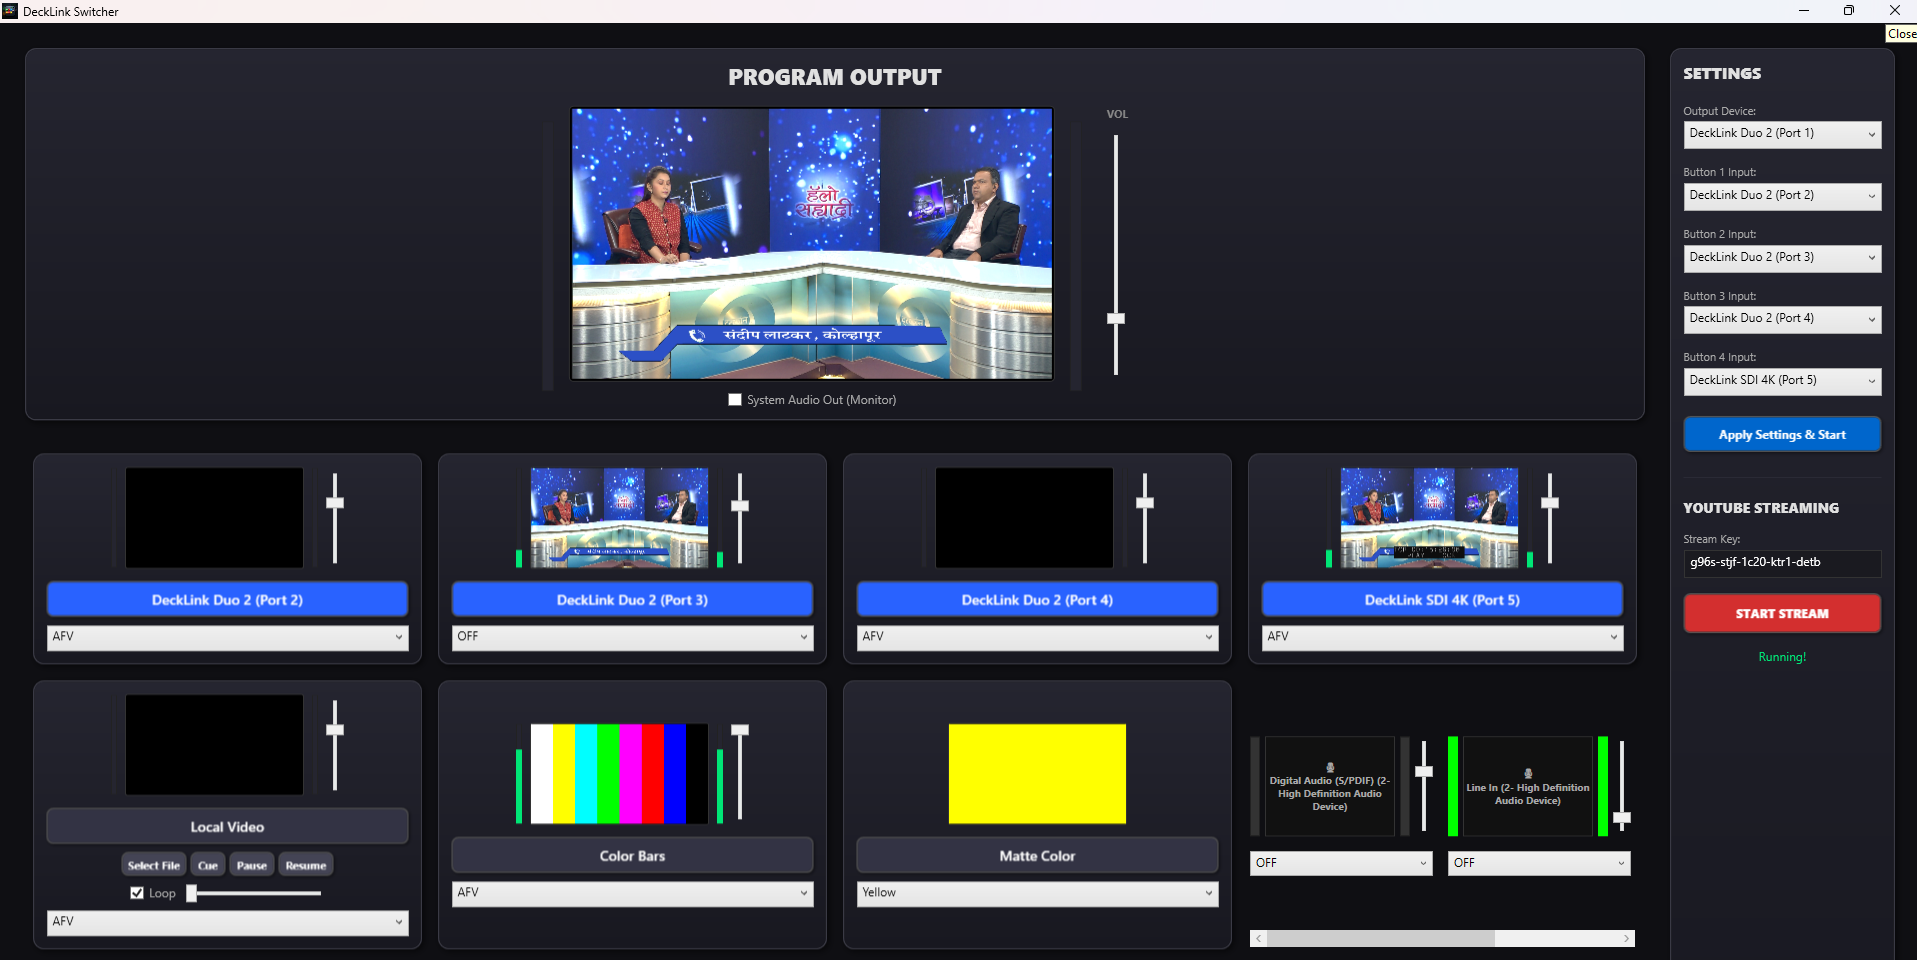
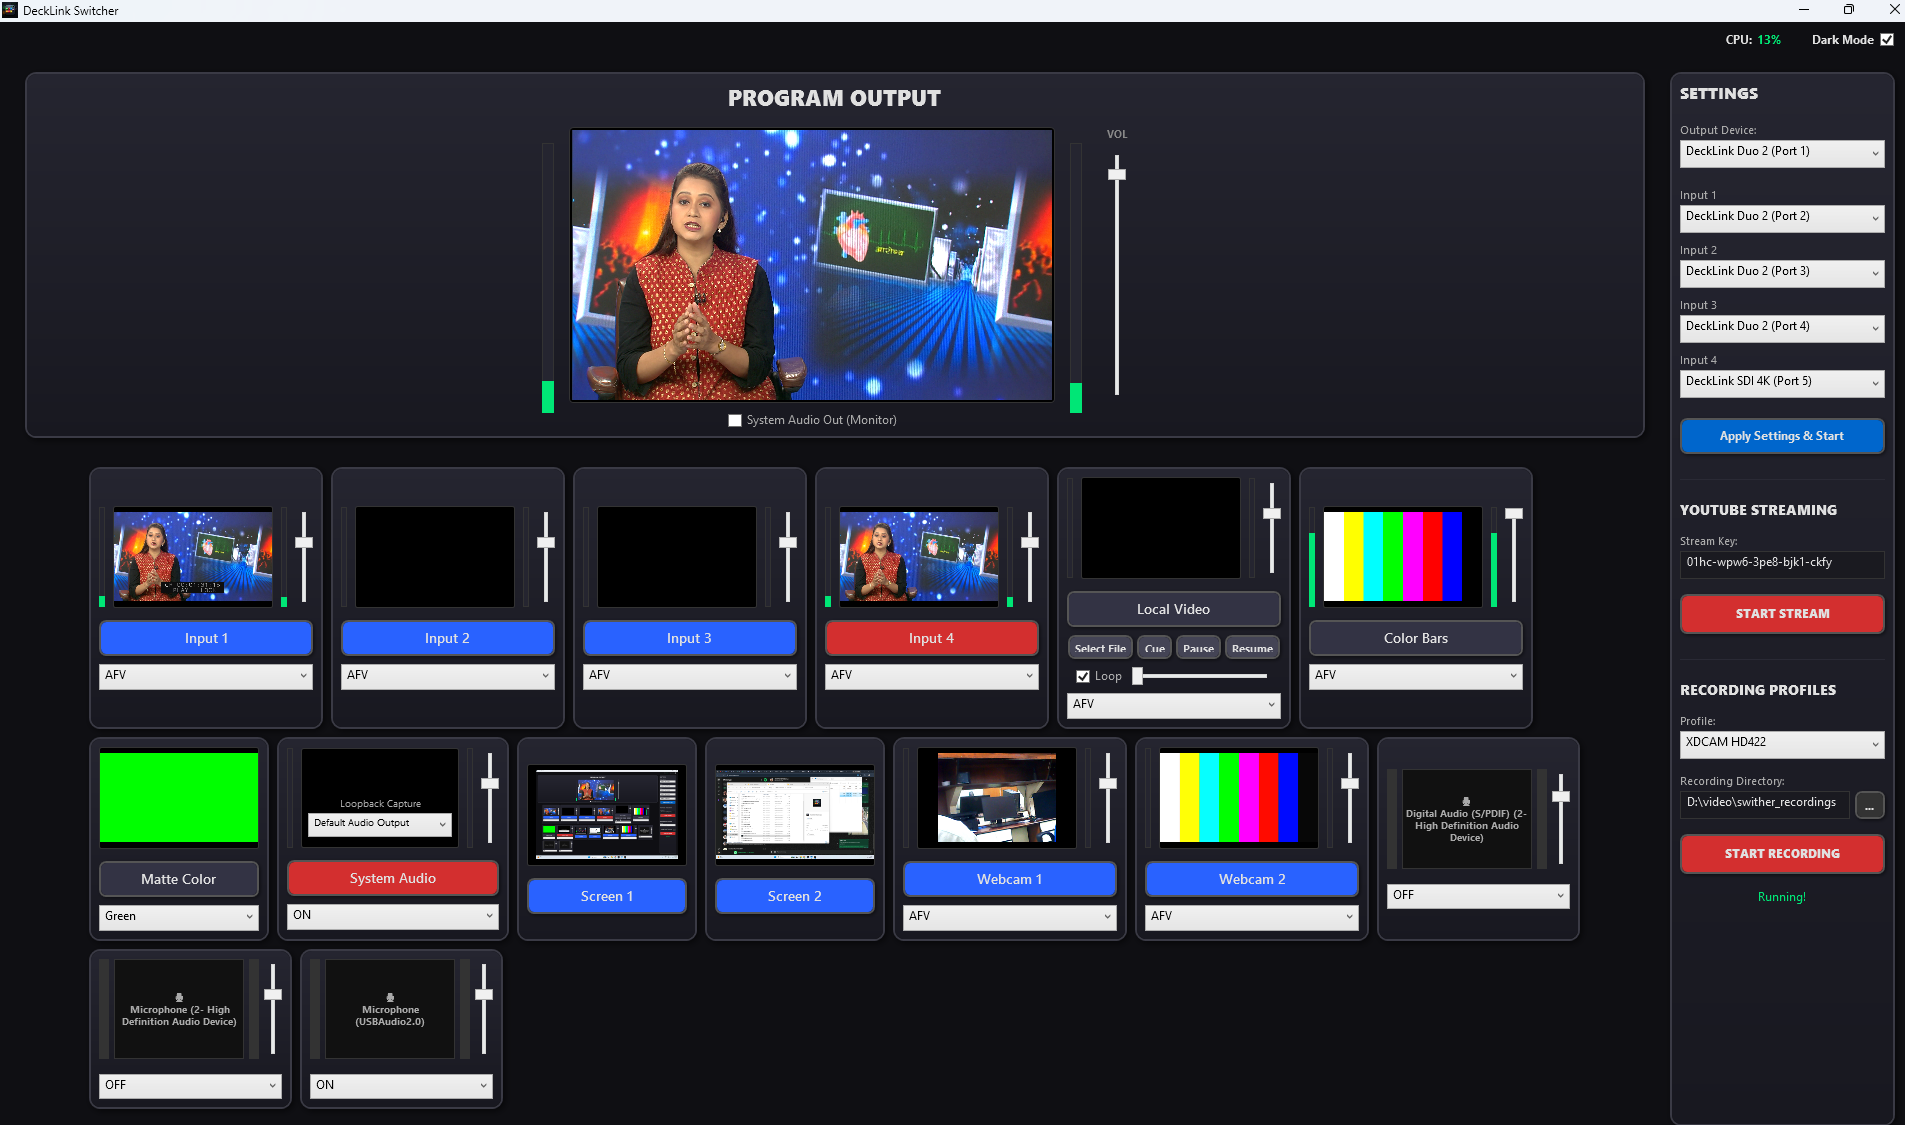
readme

diff --git a/README.md b/README.md
@@ -1,43 +1,48 @@
 # DeckLink Switcher
 ![DeckLink Switcher](image.png)
 
-A lightweight and efficient WPF application designed for Blackmagic DeckLink devices. It serves as an intuitive many-input video switcher with built-in test signals, local media playback, and a fully featured software audio mixer.
+A lightweight and efficient WPF application designed for Blackmagic DeckLink devices. It serves as an intuitive multi-input video switcher with built-in test signals, local media playback, independent screen and webcam multiview tiles, PC system audio loopback capture, and a fully featured software audio mixer.
 
 ## Features
 
-*   **Live Video Routing:** Connect to many DeckLink inputs and route them dynamically to a primary DeckLink output.
-*   **Full Audio Mixer:** Includes an integrated digital audio mixer allowing you to set independent levels and mix modes (AFV, ON, OFF) for all 4 inputs, local media, and test tones.
+*   **Live Video Routing:** Connect to multiple DeckLink inputs and route them dynamically to a primary DeckLink output with active tally indicators.
+*   **Full Audio Mixer:** Includes an integrated digital audio mixer allowing you to set independent levels and mix modes (AFV, ON, OFF) for all inputs, local media, webcams, system audio, and test tones.
     *   **Dynamic Local Microphones:** Automatically detects all connected local audio inputs (microphones, USB capture cards, line-in) and dynamically builds a dedicated mixing channel strip for every active device on your PC. *Includes robust audio buffering and MMDeviceEnumerator integration for full device name support without truncation.*
-*   **Live Previews:** Visual previews of all 4 input sources side-by-side. 
-*   **Click-to-Switch:** Easily change the program output by clicking directly on the input video previews or the corresponding input buttons below them.
-*   **Local Media Playback:** Powered by LibVLC, load and play local video files (MP4, MKV, AVI, etc.) directly into the switcher's program output. 
+*   **Live Previews & Click-to-Switch:** Visual multiviewer previews of all input sources side-by-side. Change the program output by clicking directly on any input's video preview thumbnail or its Cut button. Active sources illuminate with a prominent red tally (`#d32f2f`).
+*   **Independent Dedicated Webcam Tiles:**
+    *   **Multi-Webcam Multiviewer:** Automatically detects **all** connected USB webcams, virtual cameras (e.g., OBS Virtual Camera), and HDMI USB capture dongles, creating an **independent switcher tile for every webcam**.
+    *   **Live Monitoring & Dedicated Controls:** Each webcam tile features its own live preview thumbnail, dedicated Cut button, dual peak VU meters (L/R), volume fader, and an audio mode selector (AFV / ON / OFF).
+    *   **Proportional 1080p Scaling & Letterboxing:** Automatically scales and letterboxes arbitrary webcam resolutions (e.g., 720p, 480p, 4:3, 16:9) cleanly into the 1080p broadcast frame.
+    *   **Session Isolation & Anti-Flicker:** Built-in session tokens and device locks eliminate frame collisions, flickering, or cross-camera frame bleeding when switching.
+    *   **Integrated Microphone Linking:** Automatically associates each webcam's built-in microphone with its respective tile.
+*   **Dedicated Computer Screen Tiles:**
+    *   **Independent Multiviewer Per Screen:** Discovers all connected computer monitors and creates a dedicated switcher tile for each screen (**Screen 1**, **Screen 2**, etc.).
+    *   **Continuous Real-Time Previews:** Optimized background capture loops update every screen's preview thumbnail at 25 fps with zero UI stutter.
+    *   **Proportional Letterboxing & Anti-Aliasing:** Preserves text crispness by intelligently letterboxing non-standard monitor resolutions into the 1080p broadcast frame with 4:2:2 chroma-smoothing.
+*   **System Audio as a Source (PC Audio Loopback):**
+    *   **WASAPI Loopback Capture:** Captures desktop audio in real-time from Windows applications (browsers, YouTube, Zoom, media players, games) directly into the broadcast mix.
+    *   **Dedicated Mixer Tile:** Features dual peak VU meters, a volume fader (0.0 to 1.5), and an on-tile audio output device selector (Default Audio Output, Headphones, Speakers).
+    *   **AFV Support for Screens:** In **AFV** mode, System Audio automatically unmutes whenever any computer screen is switched to Program, and mutes when cutting away. In **ON** mode, it remains continuously mixed into Program for background music or alerts.
+    *   **Universal Format Conversion:** Converts arbitrary system audio formats (32-bit float, 16/24/32-bit PCM, 44.1 kHz, 48 kHz, 96 kHz, surround) into broadcast-standard **48 kHz 16-bit stereo PCM**.
+    *   **Decay & Silence Detection:** Meters smoothly decay and reset to zero when system audio pauses or is idle.
+*   **Local Media Playback:** Powered by LibVLC, load and play local video files (MP4, MKV, AVI, etc.) directly into the switcher's program output.
     *   **Image Support:** Also supports routing static images (JPG, PNG, BMP) seamlessly into the broadcast.
     *   **Loop Mode:** Features a toggleable gapless playback loop for continuous playback of a selected file.
-*   **Webcam Source:**
-    *   Capture any connected USB webcam, virtual camera (e.g. OBS Virtual Camera), or HDMI USB capture dongle directly into the switcher.
-    *   **Live Preview & Camera Selector:** Dedicated preview tile with live video monitoring and an on-the-fly camera selection dropdown.
-    *   **Proportional 1080p Scaling & Letterboxing:** Automatically scales and letterboxes arbitrary webcam resolutions (e.g. 720p, 480p, 4:3, 16:9) cleanly into the 1080p broadcast frame.
-    *   **Integrated AFV Audio:** Automatically links to the webcam's microphone with full support for Audio-Follows-Video (AFV), dedicated volume slider, and stereo VU meters.
-*   **Desktop Screen Capture:**
-    *   Capture any connected computer monitor natively via GDI+ and seamlessly route it to the broadcast output alongside cameras.
-    *   **Multi-Monitor Support:** Automatically detects all connected displays. Select which screen to capture directly from the UI dropdown.
-    *   **Proportional Letterboxing & Anti-Aliasing:** Preserves text crispness by intelligently letterboxing non-standard monitor resolutions into the 1080p frame and implementing 4:2:2 chroma-smoothing to eliminate edge-fringing on UI elements.
-    *   **Background Offloading:** Capture loops are highly optimized and decoupled from the main thread using `unsafe` raw pointers to ensure zero audio desync or UI lockups.
 *   **Synthetic Sources:**
     *   **Color Bars + Tone:** Generate an 8-stripe SMPTE-style UYVY color bar pattern with a perfectly synchronized, phase-continuous 1kHz sine wave audio tone for calibrating equipment.
     *   **Matte Color Generator:** Send a full-screen solid matte color directly to the output. Supports on-the-fly switching between Black, White, Red, Green, Blue, Yellow, Cyan, and Magenta.
-*   **System Audio Monitor:** Listen to the active PGM audio output directly through your PC's speakers, even if no DeckLink output hardware is present.
-*   **YouTube Live Streaming:** Built-in direct streaming to YouTube Live via RTMP. Sends a high-quality 1080p25 H.264 stream using a bundled FFmpeg. Features automatic fallback frames to keep the stream alive when no sources are active, and *perfectly synchronized audio/video push queues to prevent A/V drift over long sessions*.
-*   **Local Recording:** High-quality local recording of the program output. Saves to standard video files directly to your disk using the bundled FFmpeg (e.g. `MP4_High_ddMMyyyy_HHmmss.mp4`). Includes multiple configurable encoding profiles (H.264, MPEG-2, ProRes) explicitly tuned for broadcast. Includes the same A/V sync reliability and automatic fallback frames as the streaming engine.
-*   **Persistent Settings:** Your hardware routing, audio mixer states, levels, stream key, and system monitor preferences are continuously saved to `%APPDATA%\DecklinkSwitcher\decklink_switcher_settings.json` and restored on your next session.
+*   **System Audio Monitor:** Listen to the active PGM audio output directly through your PC's speakers or headphones, even if no DeckLink output hardware is present.
+*   **YouTube Live Streaming:** Built-in direct streaming to YouTube Live via RTMP. Sends a high-quality 1080p25 H.264 stream using bundled FFmpeg. Features automatic fallback frames to keep the stream alive when no sources are active, and synchronized audio/video queues to prevent drift.
+*   **Local Recording:** High-quality local recording of the program output directly to disk using bundled FFmpeg. Includes configurable encoding profiles (MP4 H.264, MPEG-2 XDCAM HD422, ProRes, DNxHD) tuned for broadcast and post-production.
+*   **Persistent Settings:** Your hardware routing, audio mixer states, levels, stream key, recording profile, and preferences are automatically saved to `%APPDATA%\DecklinkSwitcher\decklink_switcher_settings.json` and restored on startup.
 *   **Robust COM Handling:** Seamlessly interfaces with the Blackmagic DeckLink SDK using Multithreaded Apartment (MTA) threading.
 
 ## Prerequisites
 
-*   Windows operating system
+*   Windows operating system (Windows 10 / 11 64-bit)
 *   .NET 10.0 SDK (or higher)
 *   Blackmagic Desktop Video software installed (provides the required `DeckLinkAPI.dll` COM interfaces)
-*   Supported Blackmagic DeckLink hardware (e.g., DeckLink Duo 2, Quad 2, 4K Extreme). *Note: The switcher can still function as a software media player and audio mixer using your PC monitor even without physical DeckLink hardware.*
+*   Supported Blackmagic DeckLink hardware (e.g., DeckLink Duo 2, Quad 2, 4K Extreme). *Note: The switcher can still function fully as a software switcher, screen capture tool, media player, and audio mixer using your PC monitor even without physical DeckLink hardware.*
 
 ## Building the Application
 
@@ -51,17 +56,19 @@ To build the application locally:
 dotnet build
 ```
 
-The compiled application and its dependencies will be placed in the `bin/Debug/net10.0-windows/win-x64` directory. (A pre-compiled build is already included in this repository under that folder!)
+The compiled application and its dependencies will be placed in the `bin/Debug/net10.0-windows/win-x64` directory.
 
 ## Usage
 
 1. Open `DecklinkSwitcher.exe`.
-2. Select your designated **Output Device** from the right-side control panel (or select "None" to just use the software previews/audio).
-3. Map your physical DeckLink inputs to **Input 1**, **Input 2**, **Input 3**, and **Input 4**.
-4. Click **Apply Settings**. The application will initialize the DeckLink API and start capturing feeds.
-5. Click on an Input's preview image or button to route its signal to the output.
-6. Use the **Local Video** section to load, cue, and play media files.
-7. Use the **Audio Mixer** to adjust volume sliders and define routing rules (AFV - Audio Follows Video, ON, OFF) for each source.
-8. Click the **Color Bars** or **Matte** buttons to utilize the synthetic testing feeds.
-9. **Streaming:** Enter your YouTube Stream Key in the bottom right corner and click **Start Streaming** to broadcast your program output.
-10. **Recording:** Select a recording profile and output directory, then click **Start Recording** to save your program output to disk.
+2. Select your designated **Output Device** from the right-side control panel (or select "None" to operate in software-only mode).
+3. Map your physical DeckLink inputs to **Input 1**, **Input 2**, etc.
+4. Click **Apply Settings**. The switcher initializes hardware feeds and activates the multiview panel.
+5. **Switching Sources:** Click on any input's preview thumbnail or Cut button (**Input**, **Screen 1/2**, **Webcam 1/2**, **Media**, **Color Bars**, **Matte**) to cut it to Program output. The active source button turns red.
+6. **Screen Capture:** Each detected computer monitor displays as an individual tile (**Screen 1**, **Screen 2**, etc.). Cut to any screen to send it to Program.
+7. **Webcams:** Each detected webcam has its own dedicated tile with live video, VU meters, volume fader, and AFV/ON/OFF audio control.
+8. **System Audio:** Use the **System Audio** tile to capture your PC's audio playback (YouTube, Zoom, music). Select your audio device, adjust the volume slider, and set the mode to **AFV** (follows screen capture) or **ON** (always mixed).
+9. **Audio Mixer:** Adjust volume faders and define audio modes (**AFV** - Audio Follows Video, **ON**, **OFF**) for every channel.
+10. **Local Video:** Load media files with **Select File**, use **Cue**, **Pause**, **Resume**, and toggle **Loop**.
+11. **Streaming:** Enter your YouTube Stream Key in the settings panel and click **START STREAM**.
+12. **Recording:** Choose a recording profile (MP4, ProRes, XDCAM) and destination folder, then click **START RECORDING**.
